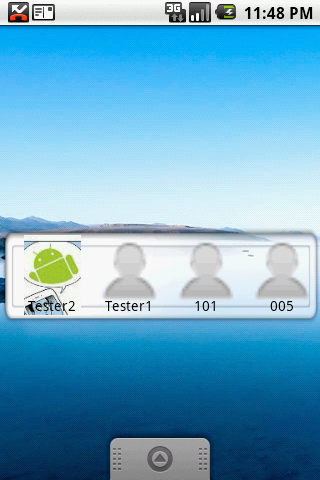
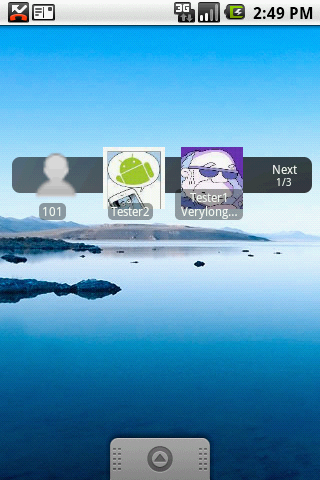
search for contact ID earlier to avoid dupes

Changed region(s): [[0.0, 0.2812, 1.0, 0.6875], [0.5, 0.0, 0.8125, 0.0625], [0.8438, 0.0, 0.9062, 0.0312]]

diff --git a/RecentWidget/src/org/recentwidget/android/RecentWidgetHolder.java b/RecentWidget/src/org/recentwidget/android/RecentWidgetHolder.java
@@ -13,7 +13,6 @@ import android.appwidget.AppWidgetManager;
 import android.content.ComponentName;
 import android.content.Context;
 import android.content.Intent;
-import android.database.Cursor;
 import android.graphics.Bitmap;
 import android.util.Log;
 import android.widget.RemoteViews;
@@ -37,6 +36,8 @@ public class RecentWidgetHolder {
 	static final void updateWidgetLabels(Context context) {
 
 		if (recentContacts == null) {
+			Log.e(TAG, "Trying to update widget without recentContacts! "
+					+ "Skipping updateWidgetLabels.");
 			return;
 		}
 
@@ -58,47 +59,11 @@ public class RecentWidgetHolder {
 
 				RecentContact recentContact = recentContacts.get(i);
 
-				// Try to fetch the Contact with the given number and/or ID
+				// Set the button label on widget
 
-				// TODO: Skip it if we already have the info! We can directly
-				// display it instead of making queries.
-
-				Cursor contactCursor = RecentWidgetUtils.CONTACTS_API
-						.getContactCursor(context, recentContact);
-
-				if (contactCursor.getCount() >= 1) {
-
-					// Just take the 1st result even if there are several
-					// matches
-
-					contactCursor.moveToFirst();
-
-					label = RecentWidgetUtils.CONTACTS_API
-							.getDisplayName(contactCursor);
-
-					// Set it, so next time we might not need to repeat this
-					// query...
-
-					recentContact.setPerson(label);
-
-					Long personId = RecentWidgetUtils.CONTACTS_API
-							.getPersonId(contactCursor);
-
-					recentContact.setPersonId(personId);
-
-				} else {
-
-					// Defaults to the basic info we got
-
-					if (recentContact.getPerson() != null) {
-						label = recentContact.getPerson();
-					} else if (recentContact.getNumber() != null) {
-						label = recentContact.getNumber();
-					}
-
+				if (recentContact.getDisplayName() != null) {
+					label = recentContact.getDisplayName();
 				}
-
-				contactCursor.close();
 
 				views.setCharSequence(RecentWidgetProvider.labelMap[i
 						% RecentWidgetProvider.numContactsDisplayed],
@@ -126,7 +91,7 @@ public class RecentWidgetHolder {
 
 					// Note that we cannot create bitmap from R.drawable.* and
 					// display it on widget. Maybe a matter of classloader or
-					// things like that. So we need to create a view resource...
+					// things like that. So we need to use a ViewResource...
 
 					views.setImageViewResource(RecentWidgetProvider.imageMap[i
 							% RecentWidgetProvider.numContactsDisplayed],

diff --git a/RecentWidget/src/org/recentwidget/compat/AbstractContactAccessor.java b/RecentWidget/src/org/recentwidget/compat/AbstractContactAccessor.java
@@ -6,6 +6,7 @@ import android.content.Context;
 import android.database.Cursor;
 import android.graphics.Bitmap;
 import android.net.Uri;
+import android.util.Log;
 
 /**
  * Accessors are actually stateless. But since we need to instance one (the one
@@ -21,13 +22,67 @@ public abstract class AbstractContactAccessor {
 	public String displayNameColumn;
 	public String personIdColumn;
 
+	public RecentContact fetchContactInfo(Context context,
+			RecentContact recentContact) {
+
+		// Try to fetch the Contact name and personId with the given info in
+		// recentContact.
+
+		if (recentContact.getPersonId() != null
+				&& recentContact.getPerson() != null) {
+
+			// Everything already fetched. Skip.
+			// TODO: unknown contact will still create a query...
+
+			Log.v(TAG, "No info to fetch for " + recentContact);
+			return recentContact;
+
+		}
+
+		Cursor contactCursor;
+		if (recentContact.getPersonId() != null) {
+			Log.v(TAG, "Fetching contact info by id");
+			contactCursor = getContactCursorById(context, recentContact);
+		} else {
+			Log.v(TAG, "Searching for contact " + recentContact);
+			contactCursor = getContactCursorBySearch(context, recentContact);
+		}
+
+		if (contactCursor.getCount() >= 1) {
+
+			// Just take the 1st result even if there are several
+			// matches
+
+			contactCursor.moveToFirst();
+
+			// Set the fetched information, so next time we might not need to
+			// repeat this query...
+
+			recentContact.setPerson(getDisplayName(contactCursor));
+
+			Long personId = getPersonId(contactCursor);
+
+			recentContact.setPersonId(personId);
+
+		} else {
+			Log.v(TAG, "No contact found");
+		}
+
+		contactCursor.close();
+
+		return recentContact;
+	}
+
 	public abstract Bitmap loadContactPhoto(Context context,
+			RecentContact recentContact);
+
+	public abstract Cursor getContactCursorById(Context context,
 			RecentContact recentContact);
 
 	/**
 	 * Retrieves the cursor on the contact without knowing its ID.
 	 */
-	public abstract Cursor getContactCursor(Context context,
+	public abstract Cursor getContactCursorBySearch(Context context,
 			RecentContact recentContact);
 
 	public String getDisplayName(Cursor contactCursor) {

diff --git a/RecentWidget/src/org/recentwidget/compat/ContactsContractAccessor.java b/RecentWidget/src/org/recentwidget/compat/ContactsContractAccessor.java
@@ -28,17 +28,57 @@ public class ContactsContractAccessor extends AbstractContactAccessor {
 	}
 
 	@Override
-	public Cursor getContactCursor(Context context, RecentContact recentContact) {
+	public Cursor getContactCursorBySearch(Context context,
+			RecentContact recentContact) {
 
+		ContentResolver resolver = context.getContentResolver();
+
+		if (recentContact.getNumber() != null
+				&& recentContact.getPerson() != null) {
+
+			// Search by name and number
+
+			return resolver.query(
+					ContactsContract.CommonDataKinds.Phone.CONTENT_URI,
+					new String[] { personIdColumn, displayNameColumn },
+					ContactsContract.CommonDataKinds.Phone.NUMBER + " = ? OR "
+							+ displayNameColumn + " = ?", new String[] {
+							recentContact.getNumber(),
+							recentContact.getPerson() }, null);
+
+		} else if (recentContact.getPerson() != null) {
+
+			// Search by name
+
+			return resolver.query(
+					ContactsContract.CommonDataKinds.Phone.CONTENT_URI,
+					new String[] { personIdColumn, displayNameColumn },
+					displayNameColumn + " = ?", new String[] { recentContact
+							.getPerson() }, null);
+
+		} else {
+
+			// Search by number by default
+
+			return resolver.query(
+					ContactsContract.CommonDataKinds.Phone.CONTENT_URI,
+					new String[] { personIdColumn, displayNameColumn },
+					ContactsContract.CommonDataKinds.Phone.NUMBER + " = ?",
+					new String[] { recentContact.getNumber() }, null);
+
+		}
+	}
+
+	@Override
+	public Cursor getContactCursorById(Context context,
+			RecentContact recentContact) {
 		ContentResolver resolver = context.getContentResolver();
 
 		return resolver.query(
 				ContactsContract.CommonDataKinds.Phone.CONTENT_URI,
-				new String[] {
-						ContactsContract.CommonDataKinds.Phone.CONTACT_ID,
-						ContactsContract.CommonDataKinds.Phone.DISPLAY_NAME },
-				ContactsContract.CommonDataKinds.Phone.NUMBER + " = ? ",
-				new String[] { recentContact.getNumber() }, null);
+				new String[] { personIdColumn, displayNameColumn },
+				personIdColumn + " = ? ", new String[] { recentContact
+						.getPersonId().toString() }, null);
 	}
 
 	@Override

diff --git a/RecentWidget/src/org/recentwidget/compat/PeopleAccessor.java b/RecentWidget/src/org/recentwidget/compat/PeopleAccessor.java
@@ -22,7 +22,40 @@ public class PeopleAccessor extends AbstractContactAccessor {
 	}
 
 	@Override
-	public Cursor getContactCursor(Context context, RecentContact recentContact) {
+	public Cursor getContactCursorBySearch(Context context,
+			RecentContact recentContact) {
+
+		ContentResolver resolver = context.getContentResolver();
+
+		if (recentContact.getNumber() != null
+				&& recentContact.getPerson() != null) {
+
+			return resolver.query(Contacts.Phones.CONTENT_URI, new String[] {
+					personIdColumn, displayNameColumn }, Phones.NUMBER
+					+ " = ? OR " + displayNameColumn + " = ?", new String[] {
+					recentContact.getNumber(), recentContact.getPerson() },
+					null);
+
+		} else if (recentContact.getPerson() != null) {
+
+			// Search by number by default
+			return resolver.query(Contacts.Phones.CONTENT_URI, new String[] {
+					personIdColumn, displayNameColumn }, displayNameColumn
+					+ " = ?", new String[] { recentContact.getPerson() }, null);
+
+		} else {
+
+			// Search by number by default
+			return resolver.query(Contacts.Phones.CONTENT_URI, new String[] {
+					personIdColumn, displayNameColumn },
+					Phones.NUMBER + " = ?", new String[] { recentContact
+							.getNumber() }, null);
+		}
+	}
+
+	@Override
+	public Cursor getContactCursorById(Context context,
+			RecentContact recentContact) {
 
 		ContentResolver resolver = context.getContentResolver();
 

diff --git a/RecentWidget/src/org/recentwidget/EventListBuilder.java b/RecentWidget/src/org/recentwidget/EventListBuilder.java
@@ -6,6 +6,7 @@ import java.util.List;
 import org.recentwidget.model.RecentContact;
 import org.recentwidget.model.RecentEvent;
 
+import android.content.Context;
 import android.util.Log;
 
 public class EventListBuilder {
@@ -29,8 +30,8 @@ public class EventListBuilder {
 		}
 	}
 
-	public void add(Long personId, String name, String number, Long id,
-			int type, int subtype, long date) {
+	public void add(Context context, Long personId, String name, String number,
+			Long id, int type, int subtype, long date) {
 
 		// Unnecessary object creation?!?
 
@@ -39,14 +40,22 @@ public class EventListBuilder {
 		contact.setPerson(name);
 		contact.setPersonId(personId);
 
+		// Fetch more information, so we can group events on a given contact and
+		// so we have all the info to be displayed later on.
+
+		contact = RecentWidgetUtils.CONTACTS_API.fetchContactInfo(context,
+				contact);
+
 		// i = index of the contact to be removed/added
 
 		int i = contacts.indexOf(contact);
 
 		if (i >= 0) {
 			contact = contacts.remove(i);
+
 			// Contact removed might have less information than the info given
-			// as parameters. Merge them
+			// as parameters. Merge them.
+
 			if (contact.getNumber() == null && number != null) {
 				contact.setNumber(number);
 			}

diff --git a/RecentWidget/src/org/recentwidget/dao/SmsDao.java b/RecentWidget/src/org/recentwidget/dao/SmsDao.java
@@ -25,6 +25,7 @@ public class SmsDao extends ContentResolverTemplate {
 
 	}
 
+	@Override
 	protected long extractEvent(EventListBuilder builder, Cursor messageCursor) {
 
 		long threadId = messageCursor.getLong(1);
@@ -40,11 +41,13 @@ public class SmsDao extends ContentResolverTemplate {
 
 		Log.v(TAG, "Fetched sms recent event: " + address + " (" + date + ")");
 
+		// TODO: How to know if it's incoming or outgoing?
+
 		if (personId == 0) {
-			builder.add(null, null, address, threadId, RecentEvent.TYPE_SMS,
-					RecentEvent.SUBTYPE_INCOMING, date);
+			builder.add(context, null, null, address, threadId,
+					RecentEvent.TYPE_SMS, RecentEvent.SUBTYPE_INCOMING, date);
 		} else {
-			builder.add(personId, null, address, threadId,
+			builder.add(context, personId, null, address, threadId,
 					RecentEvent.TYPE_SMS, RecentEvent.SUBTYPE_INCOMING, date);
 		}
 

diff --git a/RecentWidget/src/org/recentwidget/dao/ContentResolverTemplate.java b/RecentWidget/src/org/recentwidget/dao/ContentResolverTemplate.java
@@ -68,20 +68,19 @@ public abstract class ContentResolverTemplate implements EventObserver {
 		Cursor cursor = contentResolver.query(contentUri, projection, null,
 				null, sortOrder);
 
-		// Note: we might not want to retrieve all the maxRetrieved events
-		// (maybe just the last one is enough?)... depends on the current
-		// state of the recentEvents list -> the builder will tell...
-
 		try {
 
 			if (cursor.moveToFirst()) {
 
 				while (!cursor.isAfterLast()) {
 
+					// "extract" actually adds to the list
+
 					long eventDate = extractEvent(builder, cursor);
 
 					// At this point, the event was already added. Just check if
-					// next event pertains to the list.
+					// next event should be fetched; or do we have enough events
+					// already.
 
 					if (builder.isFull(eventDate, getTargetType())) {
 						break;

diff --git a/RecentWidget/src/org/recentwidget/dao/CallLogDao.java b/RecentWidget/src/org/recentwidget/dao/CallLogDao.java
@@ -52,15 +52,11 @@ public class CallLogDao extends ContentResolverTemplate {
 
 		long date = callsCursor.getLong(callsCursor.getColumnIndex(Calls.DATE));
 
-		/*
-		 * RecentEvent event = new RecentEvent(); event.setPerson(name);
-		 * event.setNumber(number); event.setType(type);
-		 */
-
 		Log.v(TAG, "Fetched telephony recent event: " + name + " (" + date
 				+ ")");
 
-		builder.add(null, name, number, id, RecentEvent.TYPE_CALL, type, date);
+		builder.add(context, null, name, number, id, RecentEvent.TYPE_CALL,
+				type, date);
 
 		return date;
 	}

diff --git a/RecentWidget/src/org/recentwidget/android/RecentWidgetUpdateService.java b/RecentWidget/src/org/recentwidget/android/RecentWidgetUpdateService.java
@@ -18,7 +18,7 @@ public class RecentWidgetUpdateService extends Service {
 	public static final String ORIGINAL_ACTION = "ORIGINAL_ACTION";
 	public static final String ORIGINAL_INTENT = "ORIGINAL_INTENT";
 
-	private static final long OBSERVER_DELAY_MILIS = 2000;
+	private static final long OBSERVER_DELAY_MILIS = 2500;
 
 	private final Handler observerHandler = new Handler();
 

diff --git a/RecentWidget/src/org/recentwidget/model/RecentContact.java b/RecentWidget/src/org/recentwidget/model/RecentContact.java
@@ -87,8 +87,10 @@ public class RecentContact implements Serializable {
 	public String getDisplayName() {
 		if (person != null) {
 			return person;
-		} else {
+		} else if (number != null) {
 			return number;
+		} else {
+			return null;
 		}
 	}
 
